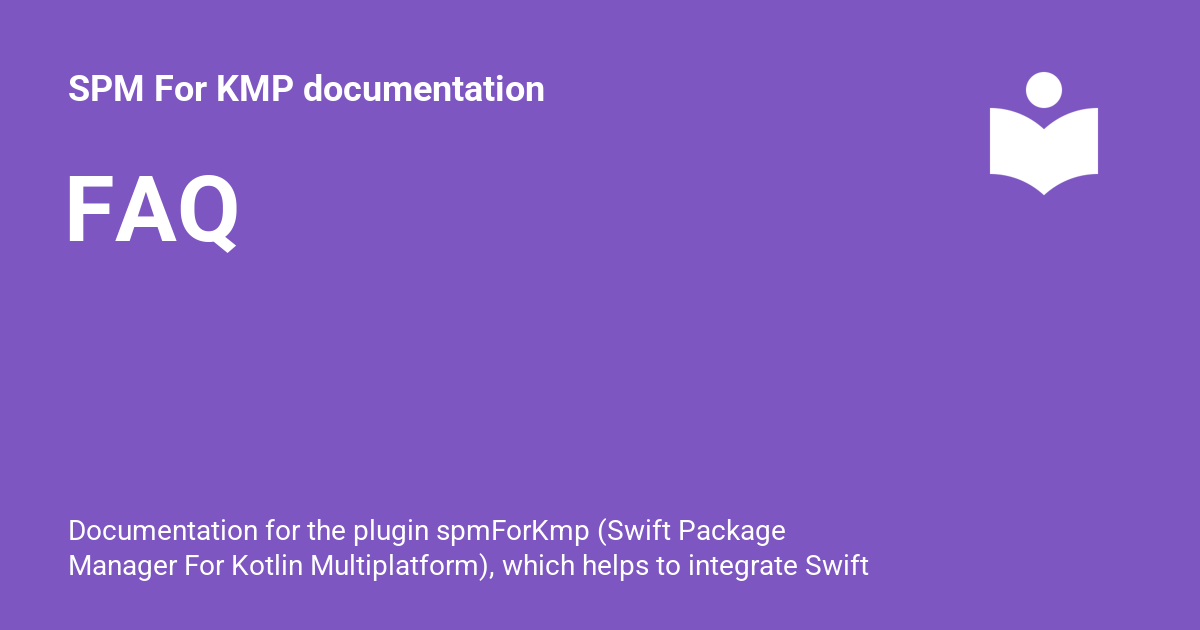
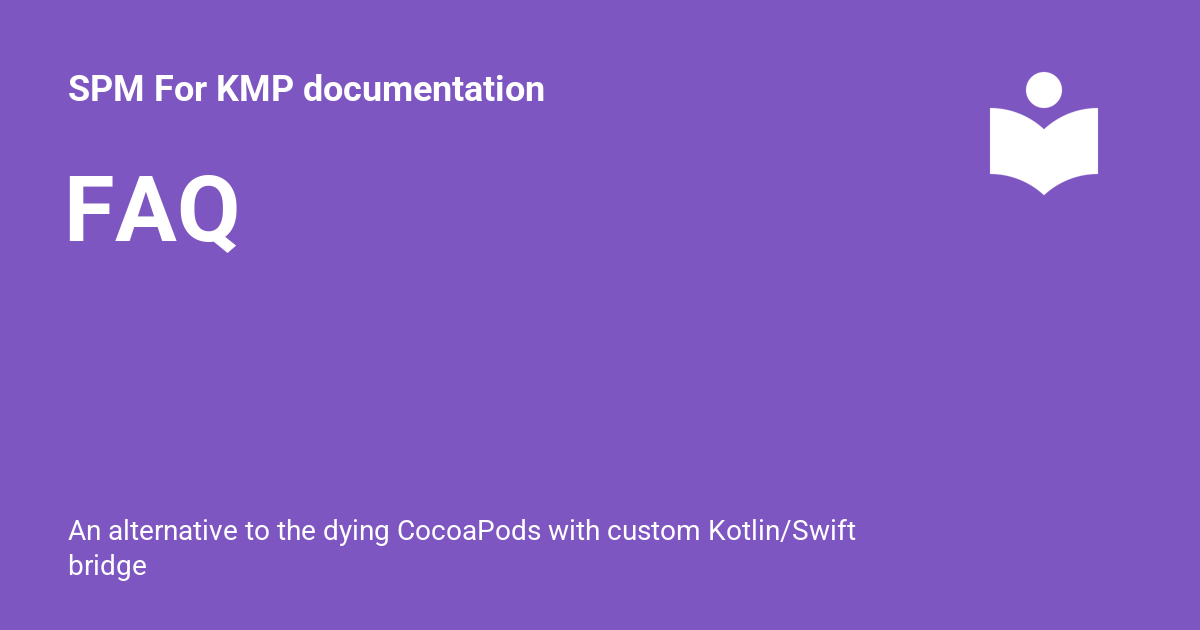
Deployed bd7e15e with MkDocs version: 1.6.1

Changed region(s): [[0.0617, 0.8143, 0.74, 0.9349]]

diff --git a/references/productPackageConfig/index.html b/references/productPackageConfig/index.html
@@ -6,7 +6,7 @@
       <meta charset="utf-8">
       <meta name="viewport" content="width=device-width,initial-scale=1">
       
-        <meta name="description" content="Documentation for the plugin spmForKmp (Swift Package Manager For Kotlin Multiplatform), which helps to integrate Swift Package into a KMP project by importing his content or using a bridge.">
+        <meta name="description" content="An alternative to the dying CocoaPods with custom Kotlin/Swift bridge">
       
       
         <meta name="author" content="François Dabonot">
@@ -63,7 +63,7 @@
       
         <meta  property="og:title"  content="ProductPackageConfig - SPM For KMP documentation" >
       
-        <meta  property="og:description"  content="Documentation for the plugin spmForKmp (Swift Package Manager For Kotlin Multiplatform), which helps to integrate Swift Package into a KMP project by importing his content or using a bridge." >
+        <meta  property="og:description"  content="An alternative to the dying CocoaPods with custom Kotlin/Swift bridge" >
       
         <meta  property="og:image"  content="https://frankois944.github.io/spm4Kmp/assets/images/social/references/productPackageConfig.png" >
       
@@ -79,7 +79,7 @@
       
         <meta  name="twitter:title"  content="ProductPackageConfig - SPM For KMP documentation" >
       
-        <meta  name="twitter:description"  content="Documentation for the plugin spmForKmp (Swift Package Manager For Kotlin Multiplatform), which helps to integrate Swift Package into a KMP project by importing his content or using a bridge." >
+        <meta  name="twitter:description"  content="An alternative to the dying CocoaPods with custom Kotlin/Swift bridge" >
       
         <meta  name="twitter:image"  content="https://frankois944.github.io/spm4Kmp/assets/images/social/references/productPackageConfig.png" >
       

diff --git a/exportingDependencies/index.html b/exportingDependencies/index.html
@@ -6,7 +6,7 @@
       <meta charset="utf-8">
       <meta name="viewport" content="width=device-width,initial-scale=1">
       
-        <meta name="description" content="Documentation for the plugin spmForKmp (Swift Package Manager For Kotlin Multiplatform), which helps to integrate Swift Package into a KMP project by importing his content or using a bridge.">
+        <meta name="description" content="An alternative to the dying CocoaPods with custom Kotlin/Swift bridge">
       
       
         <meta name="author" content="François Dabonot">
@@ -63,7 +63,7 @@
       
         <meta  property="og:title"  content="Export Dependencies To Kotlin - SPM For KMP documentation" >
       
-        <meta  property="og:description"  content="Documentation for the plugin spmForKmp (Swift Package Manager For Kotlin Multiplatform), which helps to integrate Swift Package into a KMP project by importing his content or using a bridge." >
+        <meta  property="og:description"  content="An alternative to the dying CocoaPods with custom Kotlin/Swift bridge" >
       
         <meta  property="og:image"  content="https://frankois944.github.io/spm4Kmp/assets/images/social/exportingDependencies.png" >
       
@@ -79,7 +79,7 @@
       
         <meta  name="twitter:title"  content="Export Dependencies To Kotlin - SPM For KMP documentation" >
       
-        <meta  name="twitter:description"  content="Documentation for the plugin spmForKmp (Swift Package Manager For Kotlin Multiplatform), which helps to integrate Swift Package into a KMP project by importing his content or using a bridge." >
+        <meta  name="twitter:description"  content="An alternative to the dying CocoaPods with custom Kotlin/Swift bridge" >
       
         <meta  name="twitter:image"  content="https://frankois944.github.io/spm4Kmp/assets/images/social/exportingDependencies.png" >
       

diff --git a/bridgeWithDependencies/index.html b/bridgeWithDependencies/index.html
@@ -6,7 +6,7 @@
       <meta charset="utf-8">
       <meta name="viewport" content="width=device-width,initial-scale=1">
       
-        <meta name="description" content="Documentation for the plugin spmForKmp (Swift Package Manager For Kotlin Multiplatform), which helps to integrate Swift Package into a KMP project by importing his content or using a bridge.">
+        <meta name="description" content="An alternative to the dying CocoaPods with custom Kotlin/Swift bridge">
       
       
         <meta name="author" content="François Dabonot">
@@ -63,7 +63,7 @@
       
         <meta  property="og:title"  content="Use External Dependencies - SPM For KMP documentation" >
       
-        <meta  property="og:description"  content="Documentation for the plugin spmForKmp (Swift Package Manager For Kotlin Multiplatform), which helps to integrate Swift Package into a KMP project by importing his content or using a bridge." >
+        <meta  property="og:description"  content="An alternative to the dying CocoaPods with custom Kotlin/Swift bridge" >
       
         <meta  property="og:image"  content="https://frankois944.github.io/spm4Kmp/assets/images/social/bridgeWithDependencies.png" >
       
@@ -79,7 +79,7 @@
       
         <meta  name="twitter:title"  content="Use External Dependencies - SPM For KMP documentation" >
       
-        <meta  name="twitter:description"  content="Documentation for the plugin spmForKmp (Swift Package Manager For Kotlin Multiplatform), which helps to integrate Swift Package into a KMP project by importing his content or using a bridge." >
+        <meta  name="twitter:description"  content="An alternative to the dying CocoaPods with custom Kotlin/Swift bridge" >
       
         <meta  name="twitter:image"  content="https://frankois944.github.io/spm4Kmp/assets/images/social/bridgeWithDependencies.png" >
       

diff --git a/references/swiftPackageConfig/index.html b/references/swiftPackageConfig/index.html
@@ -6,7 +6,7 @@
       <meta charset="utf-8">
       <meta name="viewport" content="width=device-width,initial-scale=1">
       
-        <meta name="description" content="Documentation for the plugin spmForKmp (Swift Package Manager For Kotlin Multiplatform), which helps to integrate Swift Package into a KMP project by importing his content or using a bridge.">
+        <meta name="description" content="An alternative to the dying CocoaPods with custom Kotlin/Swift bridge">
       
       
         <meta name="author" content="François Dabonot">
@@ -63,7 +63,7 @@
       
         <meta  property="og:title"  content="SwiftPackageConfig - SPM For KMP documentation" >
       
-        <meta  property="og:description"  content="Documentation for the plugin spmForKmp (Swift Package Manager For Kotlin Multiplatform), which helps to integrate Swift Package into a KMP project by importing his content or using a bridge." >
+        <meta  property="og:description"  content="An alternative to the dying CocoaPods with custom Kotlin/Swift bridge" >
       
         <meta  property="og:image"  content="https://frankois944.github.io/spm4Kmp/assets/images/social/references/swiftPackageConfig.png" >
       
@@ -79,7 +79,7 @@
       
         <meta  name="twitter:title"  content="SwiftPackageConfig - SPM For KMP documentation" >
       
-        <meta  name="twitter:description"  content="Documentation for the plugin spmForKmp (Swift Package Manager For Kotlin Multiplatform), which helps to integrate Swift Package into a KMP project by importing his content or using a bridge." >
+        <meta  name="twitter:description"  content="An alternative to the dying CocoaPods with custom Kotlin/Swift bridge" >
       
         <meta  name="twitter:image"  content="https://frankois944.github.io/spm4Kmp/assets/images/social/references/swiftPackageConfig.png" >
       

diff --git a/references/swiftDependency/index.html b/references/swiftDependency/index.html
@@ -6,7 +6,7 @@
       <meta charset="utf-8">
       <meta name="viewport" content="width=device-width,initial-scale=1">
       
-        <meta name="description" content="Documentation for the plugin spmForKmp (Swift Package Manager For Kotlin Multiplatform), which helps to integrate Swift Package into a KMP project by importing his content or using a bridge.">
+        <meta name="description" content="An alternative to the dying CocoaPods with custom Kotlin/Swift bridge">
       
       
         <meta name="author" content="François Dabonot">
@@ -63,7 +63,7 @@
       
         <meta  property="og:title"  content="SwiftDependency - SPM For KMP documentation" >
       
-        <meta  property="og:description"  content="Documentation for the plugin spmForKmp (Swift Package Manager For Kotlin Multiplatform), which helps to integrate Swift Package into a KMP project by importing his content or using a bridge." >
+        <meta  property="og:description"  content="An alternative to the dying CocoaPods with custom Kotlin/Swift bridge" >
       
         <meta  property="og:image"  content="https://frankois944.github.io/spm4Kmp/assets/images/social/references/swiftDependency.png" >
       
@@ -79,7 +79,7 @@
       
         <meta  name="twitter:title"  content="SwiftDependency - SPM For KMP documentation" >
       
-        <meta  name="twitter:description"  content="Documentation for the plugin spmForKmp (Swift Package Manager For Kotlin Multiplatform), which helps to integrate Swift Package into a KMP project by importing his content or using a bridge." >
+        <meta  name="twitter:description"  content="An alternative to the dying CocoaPods with custom Kotlin/Swift bridge" >
       
         <meta  name="twitter:image"  content="https://frankois944.github.io/spm4Kmp/assets/images/social/references/swiftDependency.png" >
       

diff --git a/distribution/index.html b/distribution/index.html
@@ -6,7 +6,7 @@
       <meta charset="utf-8">
       <meta name="viewport" content="width=device-width,initial-scale=1">
       
-        <meta name="description" content="Documentation for the plugin spmForKmp (Swift Package Manager For Kotlin Multiplatform), which helps to integrate Swift Package into a KMP project by importing his content or using a bridge.">
+        <meta name="description" content="An alternative to the dying CocoaPods with custom Kotlin/Swift bridge">
       
       
         <meta name="author" content="François Dabonot">
@@ -63,7 +63,7 @@
       
         <meta  property="og:title"  content="Distribute Kotlin Library - SPM For KMP documentation" >
       
-        <meta  property="og:description"  content="Documentation for the plugin spmForKmp (Swift Package Manager For Kotlin Multiplatform), which helps to integrate Swift Package into a KMP project by importing his content or using a bridge." >
+        <meta  property="og:description"  content="An alternative to the dying CocoaPods with custom Kotlin/Swift bridge" >
       
         <meta  property="og:image"  content="https://frankois944.github.io/spm4Kmp/assets/images/social/distribution.png" >
       
@@ -79,7 +79,7 @@
       
         <meta  name="twitter:title"  content="Distribute Kotlin Library - SPM For KMP documentation" >
       
-        <meta  name="twitter:description"  content="Documentation for the plugin spmForKmp (Swift Package Manager For Kotlin Multiplatform), which helps to integrate Swift Package into a KMP project by importing his content or using a bridge." >
+        <meta  name="twitter:description"  content="An alternative to the dying CocoaPods with custom Kotlin/Swift bridge" >
       
         <meta  name="twitter:image"  content="https://frankois944.github.io/spm4Kmp/assets/images/social/distribution.png" >
       

diff --git a/multiTarget/index.html b/multiTarget/index.html
@@ -6,7 +6,7 @@
       <meta charset="utf-8">
       <meta name="viewport" content="width=device-width,initial-scale=1">
       
-        <meta name="description" content="Documentation for the plugin spmForKmp (Swift Package Manager For Kotlin Multiplatform), which helps to integrate Swift Package into a KMP project by importing his content or using a bridge.">
+        <meta name="description" content="An alternative to the dying CocoaPods with custom Kotlin/Swift bridge">
       
       
         <meta name="author" content="François Dabonot">
@@ -63,7 +63,7 @@
       
         <meta  property="og:title"  content="Multi Target Configuration - SPM For KMP documentation" >
       
-        <meta  property="og:description"  content="Documentation for the plugin spmForKmp (Swift Package Manager For Kotlin Multiplatform), which helps to integrate Swift Package into a KMP project by importing his content or using a bridge." >
+        <meta  property="og:description"  content="An alternative to the dying CocoaPods with custom Kotlin/Swift bridge" >
       
         <meta  property="og:image"  content="https://frankois944.github.io/spm4Kmp/assets/images/social/multiTarget.png" >
       
@@ -79,7 +79,7 @@
       
         <meta  name="twitter:title"  content="Multi Target Configuration - SPM For KMP documentation" >
       
-        <meta  name="twitter:description"  content="Documentation for the plugin spmForKmp (Swift Package Manager For Kotlin Multiplatform), which helps to integrate Swift Package into a KMP project by importing his content or using a bridge." >
+        <meta  name="twitter:description"  content="An alternative to the dying CocoaPods with custom Kotlin/Swift bridge" >
       
         <meta  name="twitter:image"  content="https://frankois944.github.io/spm4Kmp/assets/images/social/multiTarget.png" >
       

diff --git a/largebridge/index.html b/largebridge/index.html
@@ -6,7 +6,7 @@
       <meta charset="utf-8">
       <meta name="viewport" content="width=device-width,initial-scale=1">
       
-        <meta name="description" content="Documentation for the plugin spmForKmp (Swift Package Manager For Kotlin Multiplatform), which helps to integrate Swift Package into a KMP project by importing his content or using a bridge.">
+        <meta name="description" content="An alternative to the dying CocoaPods with custom Kotlin/Swift bridge">
       
       
         <meta name="author" content="François Dabonot">
@@ -63,7 +63,7 @@
       
         <meta  property="og:title"  content="Working With Large Bridge - SPM For KMP documentation" >
       
-        <meta  property="og:description"  content="Documentation for the plugin spmForKmp (Swift Package Manager For Kotlin Multiplatform), which helps to integrate Swift Package into a KMP project by importing his content or using a bridge." >
+        <meta  property="og:description"  content="An alternative to the dying CocoaPods with custom Kotlin/Swift bridge" >
       
         <meta  property="og:image"  content="https://frankois944.github.io/spm4Kmp/assets/images/social/largebridge.png" >
       
@@ -79,7 +79,7 @@
       
         <meta  name="twitter:title"  content="Working With Large Bridge - SPM For KMP documentation" >
       
-        <meta  name="twitter:description"  content="Documentation for the plugin spmForKmp (Swift Package Manager For Kotlin Multiplatform), which helps to integrate Swift Package into a KMP project by importing his content or using a bridge." >
+        <meta  name="twitter:description"  content="An alternative to the dying CocoaPods with custom Kotlin/Swift bridge" >
       
         <meta  name="twitter:image"  content="https://frankois944.github.io/spm4Kmp/assets/images/social/largebridge.png" >
       

diff --git a/references/productName/index.html b/references/productName/index.html
@@ -6,7 +6,7 @@
       <meta charset="utf-8">
       <meta name="viewport" content="width=device-width,initial-scale=1">
       
-        <meta name="description" content="Documentation for the plugin spmForKmp (Swift Package Manager For Kotlin Multiplatform), which helps to integrate Swift Package into a KMP project by importing his content or using a bridge.">
+        <meta name="description" content="An alternative to the dying CocoaPods with custom Kotlin/Swift bridge">
       
       
         <meta name="author" content="François Dabonot">
@@ -63,7 +63,7 @@
       
         <meta  property="og:title"  content="ProductName - SPM For KMP documentation" >
       
-        <meta  property="og:description"  content="Documentation for the plugin spmForKmp (Swift Package Manager For Kotlin Multiplatform), which helps to integrate Swift Package into a KMP project by importing his content or using a bridge." >
+        <meta  property="og:description"  content="An alternative to the dying CocoaPods with custom Kotlin/Swift bridge" >
       
         <meta  property="og:image"  content="https://frankois944.github.io/spm4Kmp/assets/images/social/references/productName.png" >
       
@@ -79,7 +79,7 @@
       
         <meta  name="twitter:title"  content="ProductName - SPM For KMP documentation" >
       
-        <meta  name="twitter:description"  content="Documentation for the plugin spmForKmp (Swift Package Manager For Kotlin Multiplatform), which helps to integrate Swift Package into a KMP project by importing his content or using a bridge." >
+        <meta  name="twitter:description"  content="An alternative to the dying CocoaPods with custom Kotlin/Swift bridge" >
       
         <meta  name="twitter:image"  content="https://frankois944.github.io/spm4Kmp/assets/images/social/references/productName.png" >
       

diff --git a/bridge/index.html b/bridge/index.html
@@ -6,7 +6,7 @@
       <meta charset="utf-8">
       <meta name="viewport" content="width=device-width,initial-scale=1">
       
-        <meta name="description" content="Documentation for the plugin spmForKmp (Swift Package Manager For Kotlin Multiplatform), which helps to integrate Swift Package into a KMP project by importing his content or using a bridge.">
+        <meta name="description" content="An alternative to the dying CocoaPods with custom Kotlin/Swift bridge">
       
       
         <meta name="author" content="François Dabonot">
@@ -63,7 +63,7 @@
       
         <meta  property="og:title"  content="Bridge The Native API - SPM For KMP documentation" >
       
-        <meta  property="og:description"  content="Documentation for the plugin spmForKmp (Swift Package Manager For Kotlin Multiplatform), which helps to integrate Swift Package into a KMP project by importing his content or using a bridge." >
+        <meta  property="og:description"  content="An alternative to the dying CocoaPods with custom Kotlin/Swift bridge" >
       
         <meta  property="og:image"  content="https://frankois944.github.io/spm4Kmp/assets/images/social/bridge.png" >
       
@@ -79,7 +79,7 @@
       
         <meta  name="twitter:title"  content="Bridge The Native API - SPM For KMP documentation" >
       
-        <meta  name="twitter:description"  content="Documentation for the plugin spmForKmp (Swift Package Manager For Kotlin Multiplatform), which helps to integrate Swift Package into a KMP project by importing his content or using a bridge." >
+        <meta  name="twitter:description"  content="An alternative to the dying CocoaPods with custom Kotlin/Swift bridge" >
       
         <meta  name="twitter:image"  content="https://frankois944.github.io/spm4Kmp/assets/images/social/bridge.png" >
       

diff --git a/setup/index.html b/setup/index.html
@@ -6,7 +6,7 @@
       <meta charset="utf-8">
       <meta name="viewport" content="width=device-width,initial-scale=1">
       
-        <meta name="description" content="Documentation for the plugin spmForKmp (Swift Package Manager For Kotlin Multiplatform), which helps to integrate Swift Package into a KMP project by importing his content or using a bridge.">
+        <meta name="description" content="An alternative to the dying CocoaPods with custom Kotlin/Swift bridge">
       
       
         <meta name="author" content="François Dabonot">
@@ -63,7 +63,7 @@
       
         <meta  property="og:title"  content="Getting Started - SPM For KMP documentation" >
       
-        <meta  property="og:description"  content="Documentation for the plugin spmForKmp (Swift Package Manager For Kotlin Multiplatform), which helps to integrate Swift Package into a KMP project by importing his content or using a bridge." >
+        <meta  property="og:description"  content="An alternative to the dying CocoaPods with custom Kotlin/Swift bridge" >
       
         <meta  property="og:image"  content="https://frankois944.github.io/spm4Kmp/assets/images/social/setup.png" >
       
@@ -79,7 +79,7 @@
       
         <meta  name="twitter:title"  content="Getting Started - SPM For KMP documentation" >
       
-        <meta  name="twitter:description"  content="Documentation for the plugin spmForKmp (Swift Package Manager For Kotlin Multiplatform), which helps to integrate Swift Package into a KMP project by importing his content or using a bridge." >
+        <meta  name="twitter:description"  content="An alternative to the dying CocoaPods with custom Kotlin/Swift bridge" >
       
         <meta  name="twitter:image"  content="https://frankois944.github.io/spm4Kmp/assets/images/social/setup.png" >
       

diff --git a/license/index.html b/license/index.html
@@ -6,7 +6,7 @@
       <meta charset="utf-8">
       <meta name="viewport" content="width=device-width,initial-scale=1">
       
-        <meta name="description" content="Documentation for the plugin spmForKmp (Swift Package Manager For Kotlin Multiplatform), which helps to integrate Swift Package into a KMP project by importing his content or using a bridge.">
+        <meta name="description" content="An alternative to the dying CocoaPods with custom Kotlin/Swift bridge">
       
       
         <meta name="author" content="François Dabonot">
@@ -61,7 +61,7 @@
       
         <meta  property="og:title"  content="License - SPM For KMP documentation" >
       
-        <meta  property="og:description"  content="Documentation for the plugin spmForKmp (Swift Package Manager For Kotlin Multiplatform), which helps to integrate Swift Package into a KMP project by importing his content or using a bridge." >
+        <meta  property="og:description"  content="An alternative to the dying CocoaPods with custom Kotlin/Swift bridge" >
       
         <meta  property="og:image"  content="https://frankois944.github.io/spm4Kmp/assets/images/social/license.png" >
       
@@ -77,7 +77,7 @@
       
         <meta  name="twitter:title"  content="License - SPM For KMP documentation" >
       
-        <meta  name="twitter:description"  content="Documentation for the plugin spmForKmp (Swift Package Manager For Kotlin Multiplatform), which helps to integrate Swift Package into a KMP project by importing his content or using a bridge." >
+        <meta  name="twitter:description"  content="An alternative to the dying CocoaPods with custom Kotlin/Swift bridge" >
       
         <meta  name="twitter:image"  content="https://frankois944.github.io/spm4Kmp/assets/images/social/license.png" >
       
